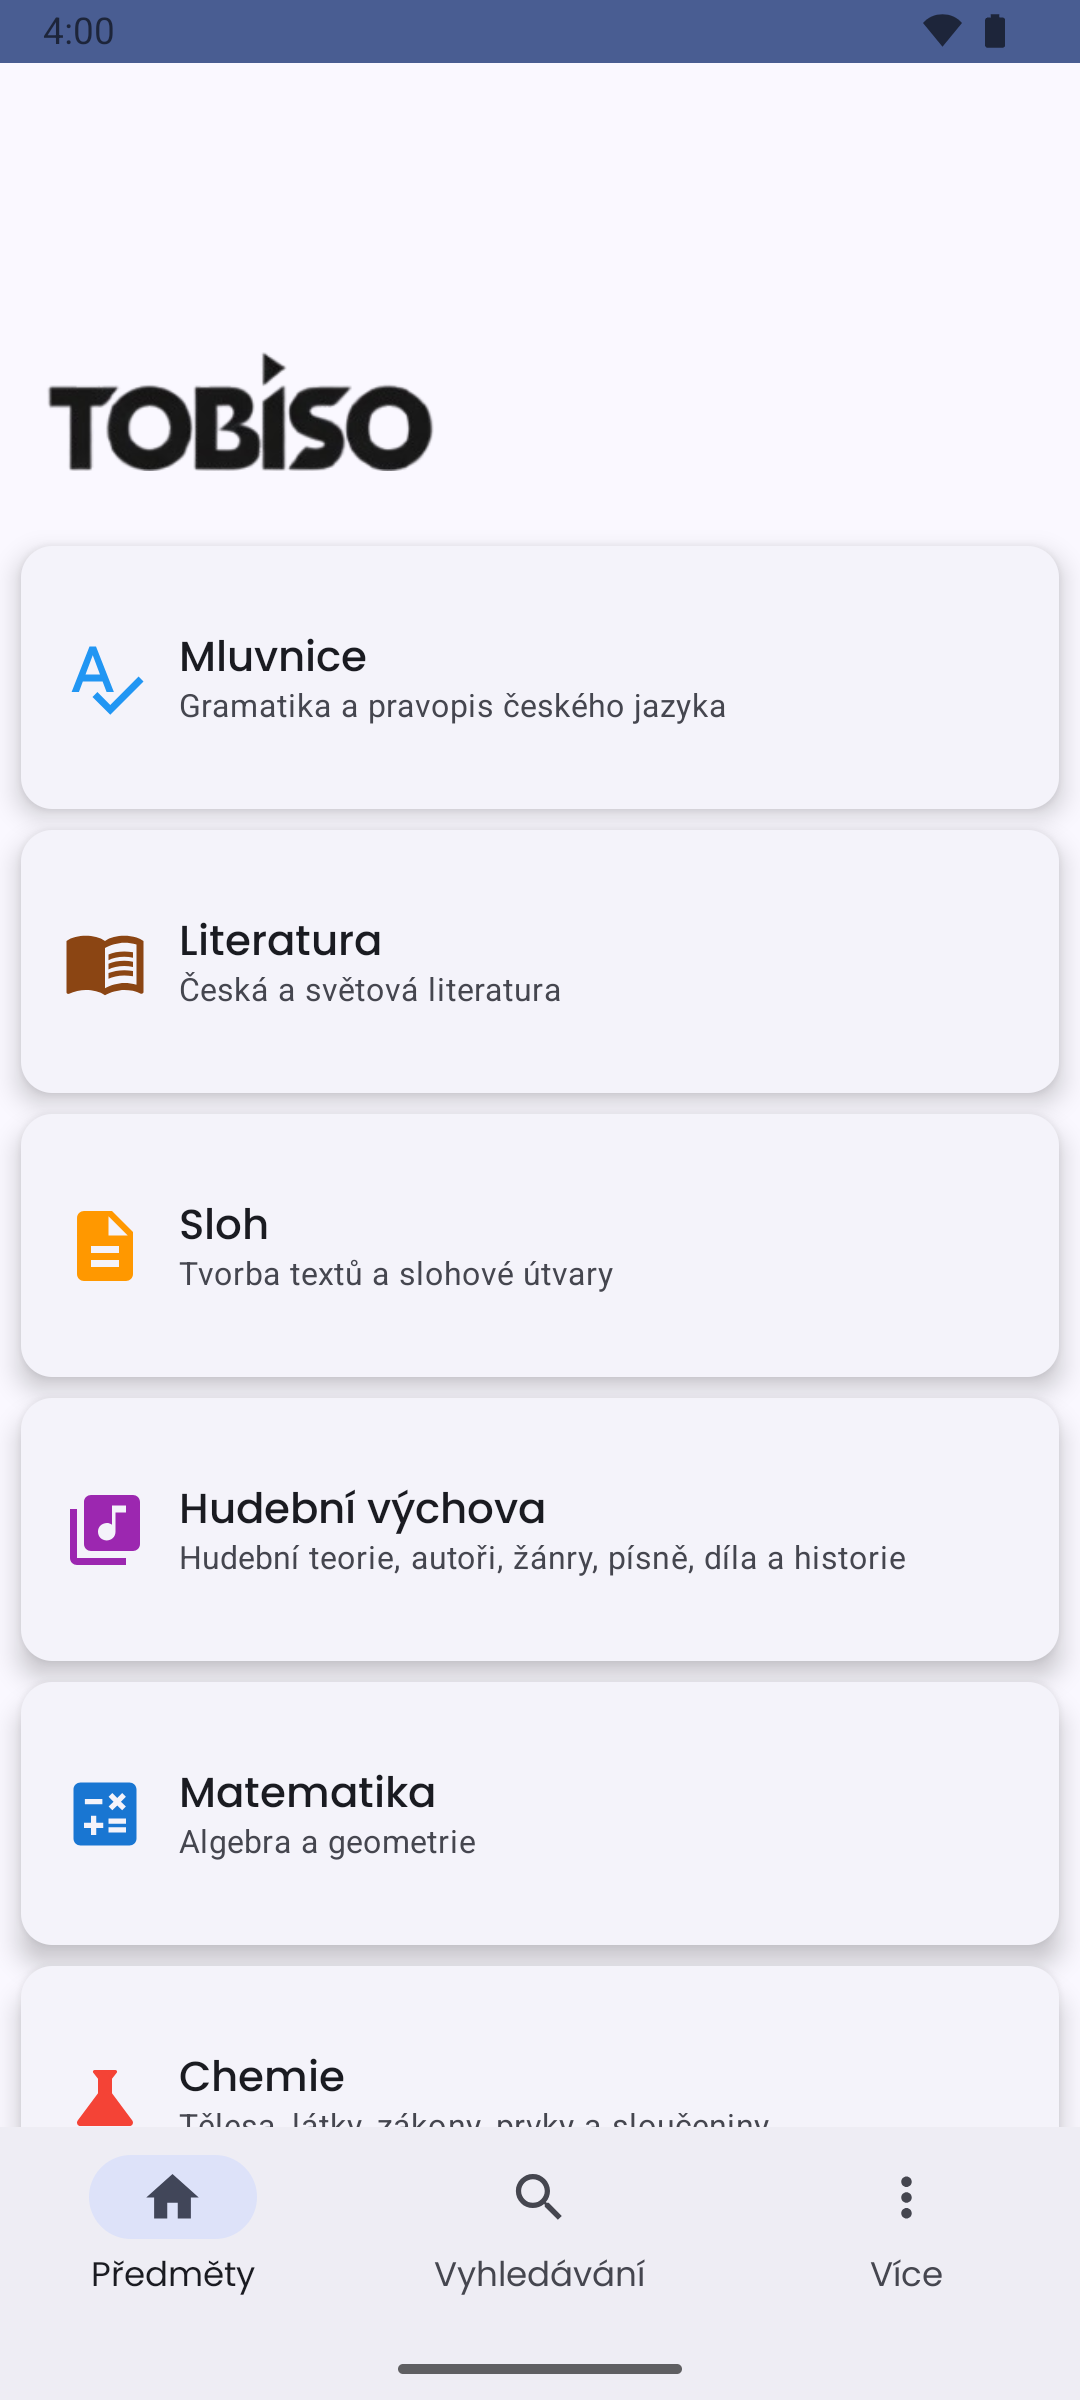
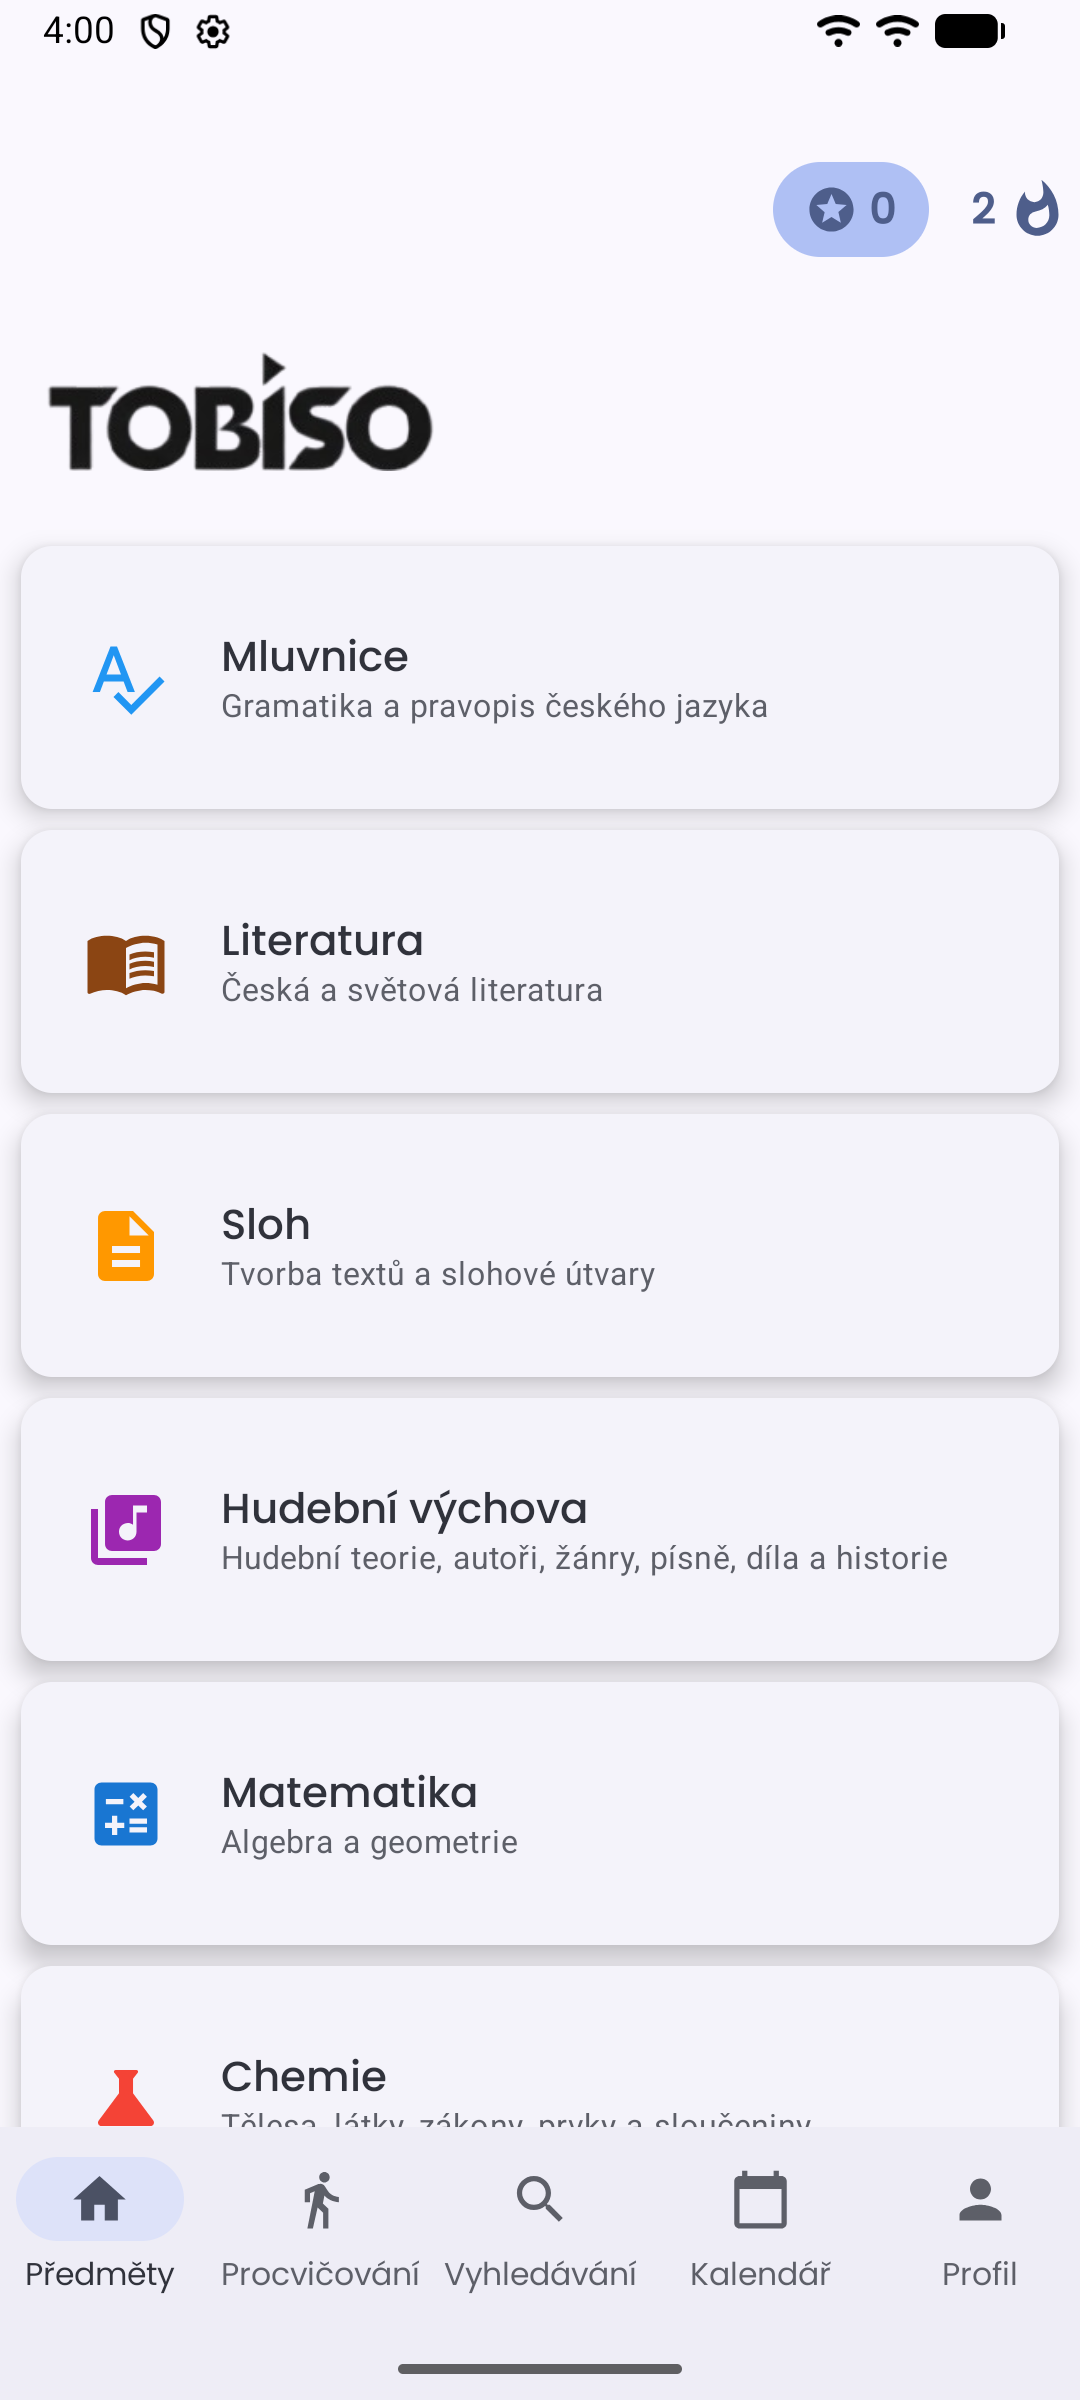
feat: Add footer component with navigation buttons and update calendar page description

diff --git a/Tobiso.Web.App/wwwroot/css/style.css b/Tobiso.Web.App/wwwroot/css/style.css
@@ -1634,6 +1634,7 @@ body.scroll-lock {
 .related-posts a {
     padding: 0;
     margin: 0;
+    margin-top: 20px;
 }
 .related-posts-div {
     padding: 10px;
@@ -1645,6 +1646,11 @@ body.scroll-lock {
 }
 .related-posts-div:hover {
     background-color: var(--hover-bg);
+}
+@media (max-width: 600px) {
+    .ribbon {
+        display: none;
+    }
 }
 /* Dark mode styles */
 
@@ -2263,4 +2269,146 @@ body.dark-mode .post-item.selected .question-count {
 }
 body.dark-mode .related-posts-div:hover {
     background-color: var(--hover-bg-dark);
+}
+
+/* Decorative ribbons for CategoryList */
+.decorative-ribbons {
+    position: fixed;
+    top: 0;
+    left: 0;
+    width: 100%;
+    height: 100%;
+    pointer-events: none;
+    z-index: -1;
+    overflow: hidden;
+}
+
+.ribbon {
+    position: absolute;
+    opacity: 0.15;
+    transition: all 0.3s ease;
+}
+
+.ribbon path {
+    stroke-linecap: round;
+}
+
+.ribbon-1 {
+    width: 350px;
+    height: 1600px;
+    top: -200px;
+    left: 180px;
+}
+
+.ribbon-2 {
+    width: 400px;
+    height: 1400px;
+    bottom: -150px;
+    left: 230px;
+}
+
+.ribbon-3 {
+    width: 380px;
+    height: 1500px;
+    top: -250px;
+    right: 30px;
+}
+
+.ribbon-4 {
+    width: 360px;
+    height: 1450px;
+    bottom: -200px;
+    right: 80px;
+}
+
+.ribbon-5 {
+    width: 340px;
+    height: 100vh;
+    bottom: 0;
+    left: 230px;
+}
+
+.ribbon-6 {
+    width: 100%;
+    max-width: 2000px;
+    height: 35vh;
+    bottom: 0;
+    left: 50%;
+    transform: translateX(-50%);
+}
+
+.ribbon-7 {
+    width: 120px;
+    height: 1200px;
+    top: 0;
+    left: 285px;
+    transform: rotate(-6deg);
+}
+.ribbon-8 {
+    width: 120px;
+    height: 1200px;
+    top: 0;
+    right: 0;
+    transform: rotate(8deg);
+}
+.ribbon-9 {
+    width: 100px;
+    height: 1200px;
+    top: 0;
+    left: 285px;
+    transform: rotate(12deg);
+}
+
+@media only screen and (max-width: 600px) {
+    .ribbon {
+        opacity: 0.1;
+    }
+    
+    .ribbon-1 {
+        width: 130px;
+        height: 1000px;
+        top: -150px;
+        left: -30px;
+    }
+    
+    .ribbon-2 {
+        width: 120px;
+        height: 900px;
+        bottom: -100px;
+        left: -20px;
+    }
+    
+    .ribbon-3 {
+        width: 140px;
+        height: 1050px;
+        top: -180px;
+        right: -30px;
+    }
+    
+    .ribbon-4 {
+        width: 125px;
+        height: 950px;
+        bottom: -120px;
+        right: -20px;
+    }
+    
+    .ribbon-5 {
+        width: 110px;
+        height: 750px;
+        left: -20px;
+    }
+    
+    .ribbon-6 {
+        width: 100%;
+        height: 120px;
+        bottom: -30px;
+    }
+}
+
+body.dark-mode .ribbon {
+    opacity: 0.08;
+}
+
+body.dark-mode .ribbon path {
+    opacity: 0.8;
 }
